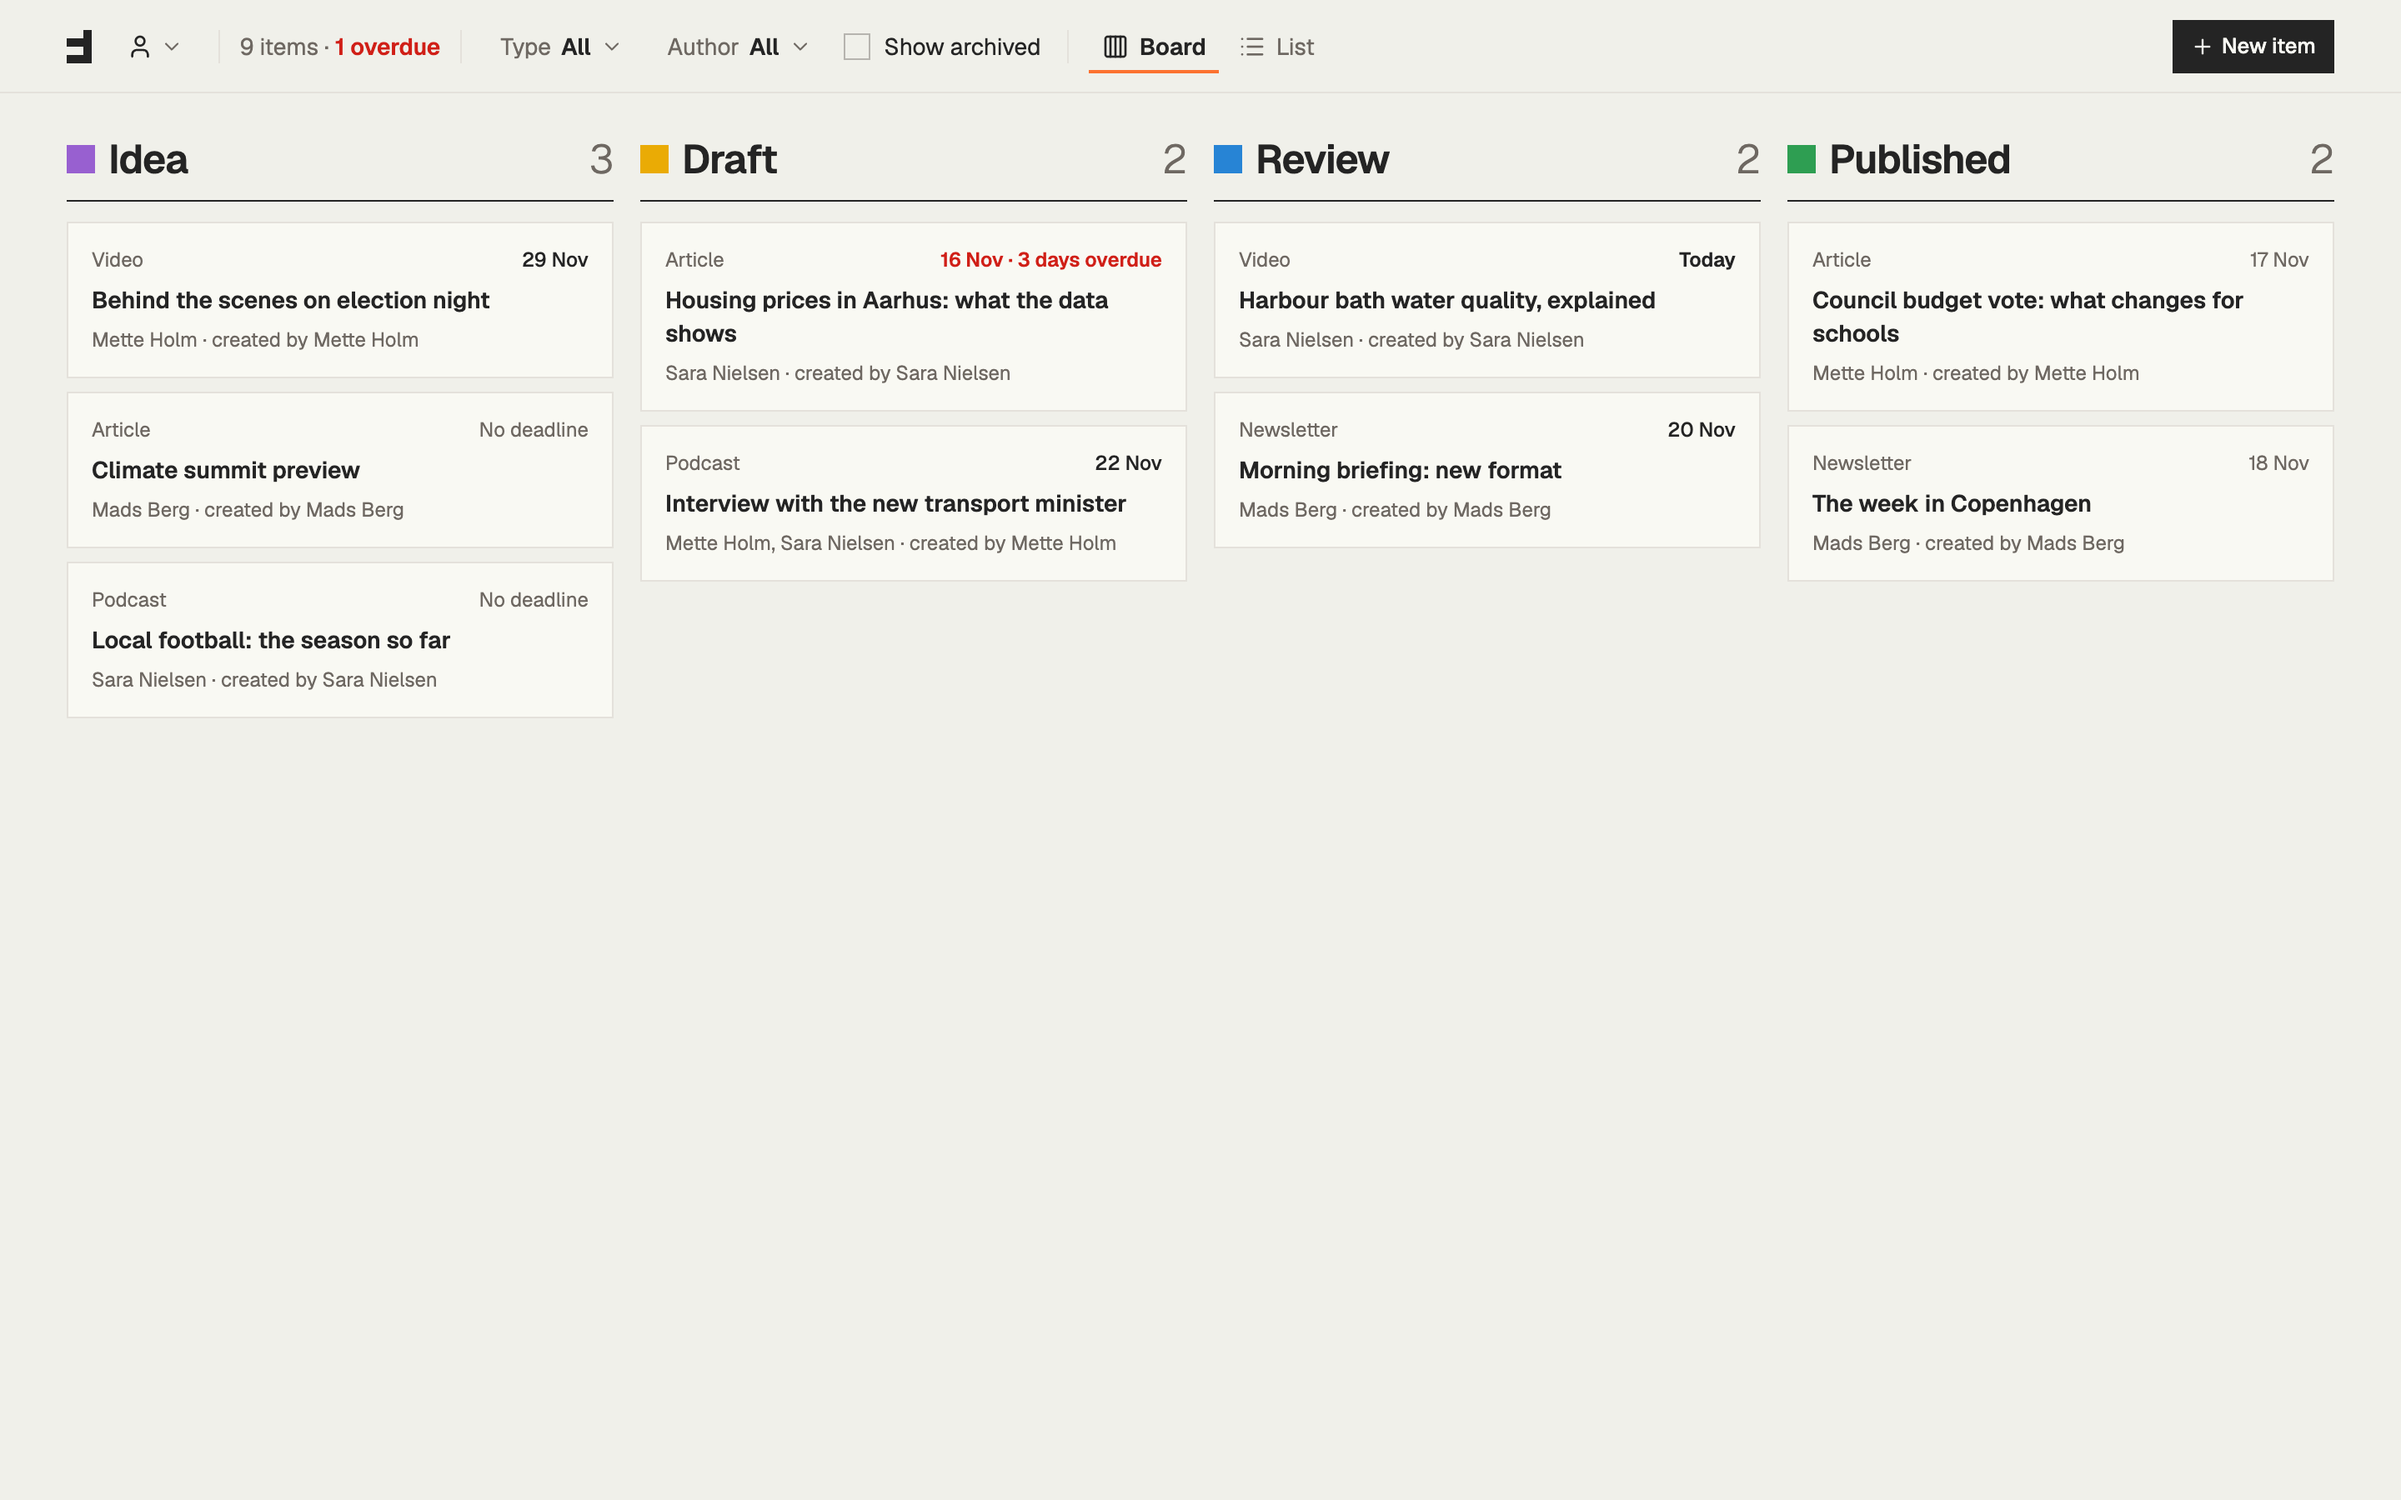
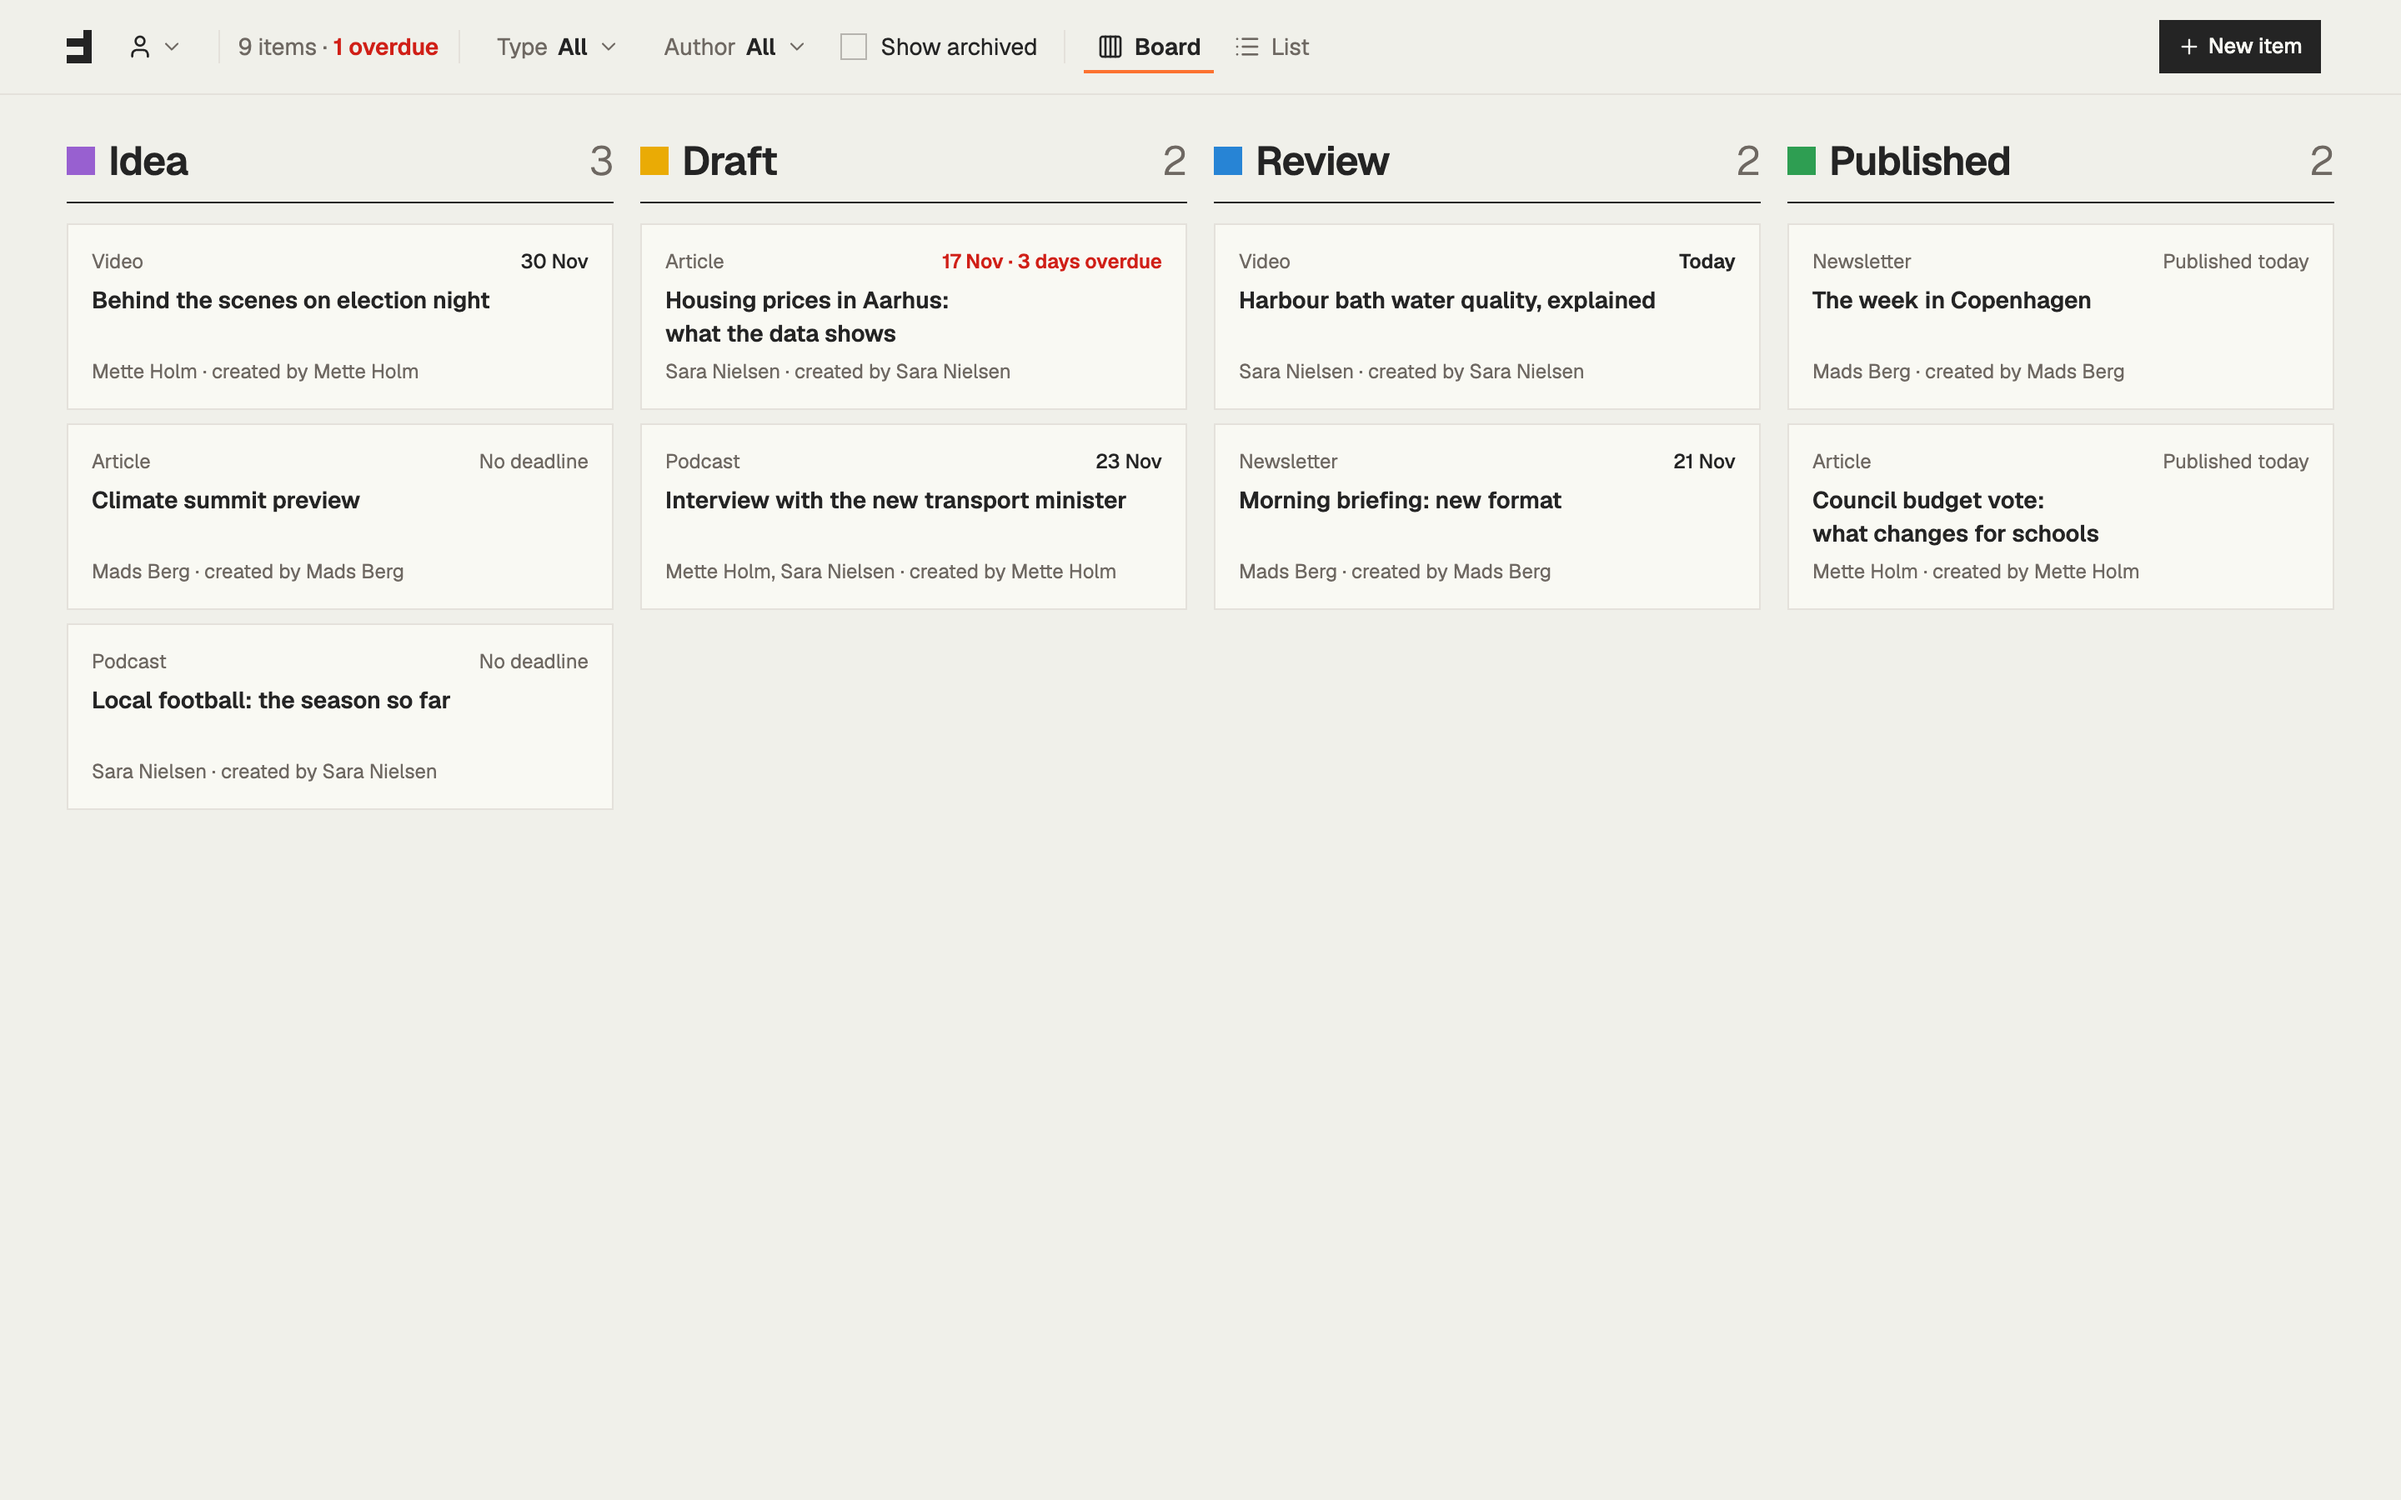
docs: trim the README to one fresh screenshot, add dark mode and notifications to next steps

diff --git a/README.md b/README.md
@@ -8,11 +8,11 @@ A small tool for a newsroom to plan content. Items (articles, videos, podcast ep
 
 - Login with two roles: Editor and Contributor.
 - Board view with one column per status. Drag a card to change its status.
-- List view with status tabs and server-side sorting.
+- List view with status tabs. The server sorts the list.
 - Item dialog to create, edit, publish and archive an item.
 - Filters for type, author and archived items. View, filters and sort are in the URL.
-- Deadlines with an overdue state, computed in Europe/Copenhagen.
-- Rules enforced on the server for the app, the REST API and the Admin panel.
+- Deadlines with an overdue state. The app uses the Europe/Copenhagen time zone.
+- The server enforces the rules for the app, the REST API and the Admin panel.
 - Live updates when other users change items.
 
 ## Stack
@@ -93,37 +93,26 @@ A session lasts 8 hours. After 5 failed logins, an account is locked for 10 minu
 
 ## How it works
 
-- **Permissions.** A contributor sees and changes only own items (creator or author). Only an editor can publish. Collection access gives the row scope, and a `beforeChange` hook checks values, so the rules also hold for the REST API. See [ADR 0003](docs/adr/0003-permissions-server-side.md).
+- **Permissions.** A contributor sees and changes only own items (creator or author). Only an editor can publish. Collection access gives the row scope. A `beforeChange` hook checks the values. Thus the rules also apply to the REST API. See [ADR 0003](docs/adr/0003-permissions-server-side.md).
 - **Login.** A Server Action logs in with Payload and sets the `payload-token` cookie. The app and the Admin panel share the session. Logout ends the session on the server. See [ADR 0011](docs/adr/0011-auth-and-session.md).
 - **Dashboard.** The URL holds the view, the filters and the list state (`?view=list`, `?type=article`, `?author=<id>`, `?archived=1`, `?status=draft`, `?sort=title&dir=desc`, `?item=12`, `?item=new`), so you can share a filtered view. The server loads the items as the logged-in user, builds the board and sorts the list. On small screens the list is the only view. The counts and the cards use the same deadline rule.
-- **Item view.** The item opens in a dialog over the dashboard, with its id in the URL. Server Actions save the item as the logged-in user; the same server rules apply. See [ADR 0004](docs/adr/0004-item-dialog-in-url.md).
+- **Item view.** The item opens in a dialog over the dashboard, with its id in the URL. Server Actions save the item as the logged-in user. The same server rules apply. See [ADR 0004](docs/adr/0004-item-dialog-in-url.md).
 - **Live updates.** Every 5 seconds, when the window gets focus and when the tab becomes visible, the dashboard asks the server for a small version of the items that the user can read. When the version changes, the page loads the new data. The check pauses while the tab is hidden, during unsaved edits or an open confirm, during a drag and while a move is pending. See [ADR 0008](docs/adr/0008-live-updates-polling.md).
 - **Publishing.** In the item dialog, select the Published step. The button changes to "Publish" and pulses. While you drag a card over Published, the column shows the same pulse. See [ADR 0009](docs/adr/0009-publish-pulse-magic-ui.md).
 - **Archive.** Archive replaces delete. An archived item keeps its status, is read-only and is hidden unless "Show archived" is on.
-- **Deadlines.** Plain dates, one state function, one formatter. See [ADR 0007](docs/adr/0007-deadlines-plain-dates.md).
+- **Deadlines.** A deadline is a plain date. One function gives the deadline state, and one function formats the date. See [ADR 0007](docs/adr/0007-deadlines-plain-dates.md).
 
 The full rules are in [docs/spec.md](docs/spec.md). The design rules are in [docs/design-system.md](docs/design-system.md). All decisions are in [docs/adr](docs/adr/).
 
-## Screens
-
-Screenshots of the app with the demo data:
-
-| | |
-|---|---|
-| ![Login](docs/screenshots/login.png) | ![List view](docs/screenshots/list.png) |
-| ![Drag to publish](docs/screenshots/drag-to-publish.png) | ![Item dialog, armed to publish](docs/screenshots/item-publish.png) |
-| ![Contributor board](docs/screenshots/contributor.png) | ![List view on a phone](docs/screenshots/mobile-list.png) |
-
-
 ## Supply-chain safety
 
-A hijacked npm package is usually found and removed within a few days. So this repo waits before it uses a new release.
+The npm registry usually finds and removes a hijacked package in a few days. Thus this repo waits before it uses a new release.
 
 - **28-day rule.** pnpm installs only package versions that are 28 days old or older (`minimumReleaseAge` in `pnpm-workspace.yaml`). The rule applies on every machine, in CI and in the Docker build. The GitHub Actions follow the same rule.
-- **Exact versions.** The lockfile holds the exact versions. CI and Docker install with `--frozen-lockfile`. Payload and Next.js have exact pins in `package.json`. The GitHub Actions are pinned to a commit SHA.
+- **Exact versions.** The lockfile holds the exact versions. CI and Docker install with `--frozen-lockfile`. Payload and Next.js have exact pins in `package.json`. Each GitHub Action has a pin to a commit SHA.
 - **Install scripts.** Only the packages in `onlyBuiltDependencies` can run install scripts.
-- **Audit.** `pnpm check` runs `pnpm audit` and fails on moderate or higher advisories. Fixes for sub-dependencies are in `overrides`. Unused optional packages are not installed.
-- **Few dependencies.** Unused starter parts are removed. The shadcn CLI is not a runtime dependency (`shadcn eject`).
+- **Audit.** `pnpm check` runs `pnpm audit` and fails on moderate or higher advisories. The fixes for sub-dependencies are in `overrides`. pnpm does not install unused optional packages.
+- **Few dependencies.** The repo has no unused starter parts. The shadcn CLI is not a runtime dependency (`shadcn eject`).
 
 Exceptions:
 
@@ -144,7 +133,7 @@ TODO: on these dates, upgrade the package and remove its entries from `ignoreGhs
 - "Own item" means the user created it or is an author.
 - Archive is a flag, not a status. Any item can be archived.
 - Contributors can move items between Idea, Draft and Review in any order. Only editors publish or unpublish.
-- No success toasts and no undo. The card moving is the feedback. To undo a move, drag it back.
+- No success toasts and no undo. The moved card is the feedback. To undo a move, drag it back.
 - Concurrent edits: the last save wins.
 - Mobile: list view only. The board is for desktop.
 - SQLite keeps the setup simple. Production would use Postgres.
@@ -155,6 +144,8 @@ TODO: on these dates, upgrade the package and remove its entries from `ignoreGhs
 - Optimistic locking for concurrent edits.
 - Realtime push (Server-Sent Events) instead of polling.
 - A mobile layout for the board.
+- Dark mode, for journalists who work late to meet a deadline. All colours are tokens (`@theme` in `globals.css`). Thus dark mode needs a second set of token values and a switch, but no component changes.
+- Notifications when the status of an item changes (for example in Slack). A Payload `afterChange` hook on `content-items` adds a job to the Payload jobs queue. Thus a slow Slack API does not delay the save.
 - Deployment.
 - End-to-end tests (Playwright).
 - A CI check that the migrations match the collections.

diff --git a/docs/spec.md b/docs/spec.md
@@ -169,7 +169,8 @@ Pattern: the state, then the next step.
 - Optimistic locking for concurrent edits.
 - Realtime push (SSE or Postgres LISTEN/NOTIFY) instead of polling.
 - A mobile layout for the board.
-- Notifications.
+- Notifications when the status of an item changes (for example in Slack).
+- Dark mode.
 
 ## 9. Open points
 
